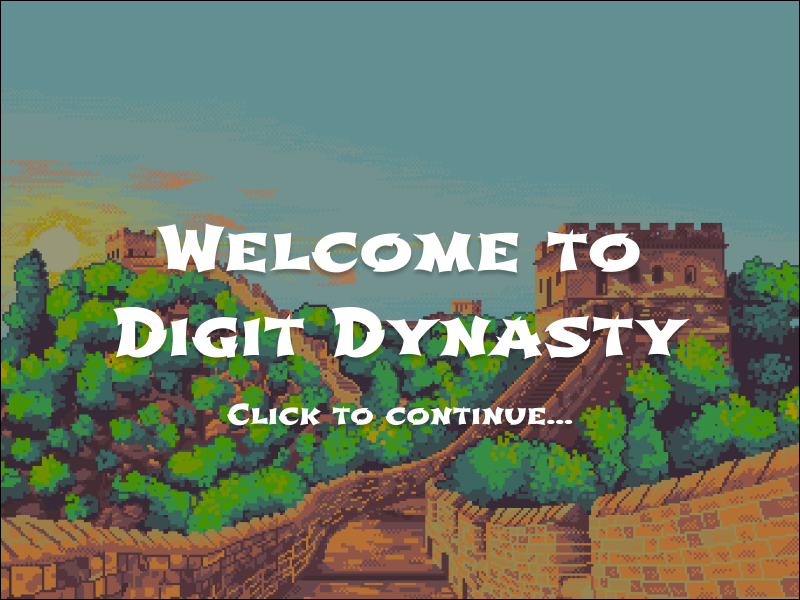
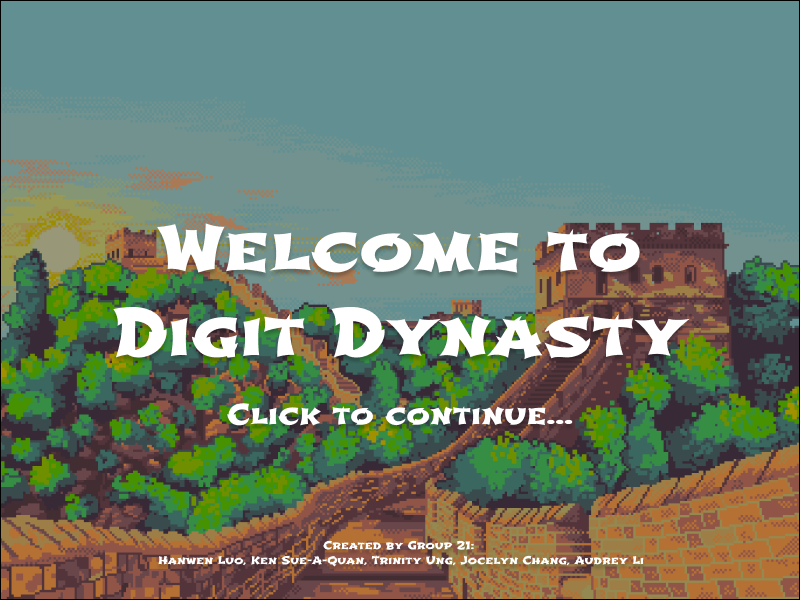
add welcome screen

Changed region(s): [[0.1875, 0.9, 0.8125, 0.96]]

diff --git a/mainMenu.py b/mainMenu.py
@@ -12,6 +12,7 @@ pygame.init()
 SCREEN = pygame.display.set_mode((SCREEN_WIDTH, SCREEN_HEIGHT))
 pygame.display.set_caption('DIGIT DYNASTY')
 BACKGROUND = pygame.image.load("images/background.png")
+WELCOME_SCREEN = pygame.image.load("images/Welcome Screen.png")
 LOGIN = pygame.image.load("images/login_screen.png")
 SIGNUP = pygame.image.load("images/sign_up_screen.png")
 HIGH_SCORE = pygame.image.load("images/leaderboard_screen.png")
@@ -377,8 +378,46 @@ def instructions():
 
         pygame.display.update()
 
+def instructor_dashboard():
+    while True:
+        MOUSE_X, MOUSE_Y = pygame.mouse.get_pos()
+        GAME_MOUSE_POS = pygame.mouse.get_pos()
+
+        SCREEN.blit(INSTRUCTIONS, (0, 0))
+        
+        INSTRUCTIONS_BACK = Button(image = "images/back_button.png", pos = (70, 55), text_input = "", font = get_font("Shojumaru",15), base_colour = "White", hovering_colour = "#b51f09")
+        INSTRUCTIONS_BACK.update(SCREEN)
+
+        if (40<MOUSE_X<75 and 40<MOUSE_Y<70):
+            SCREEN.blit(RESIZED_BACK, (-90,-96))
+
+        for event in pygame.event.get():
+            if event.type == pygame.QUIT:
+                pygame.quit()
+                sys.exit()
+            if event.type == pygame.MOUSEBUTTONDOWN:
+                if INSTRUCTIONS_BACK.checkInput(GAME_MOUSE_POS):
+                    main_menu()
+
+        pygame.display.update()
+
+def welcome_screen():
+    run = True
+    while run:
+        SCREEN.blit(WELCOME_SCREEN, (0, 0))
+        pygame.display.update()
+        for event in pygame.event.get():
+            if event.type == pygame.QUIT:
+                pygame.quit()
+                sys.exit()
+            elif event.type == pygame.MOUSEBUTTONDOWN:
+                run = False
+        pygame.display.update()
+
+
 # Main Menu screen
 def main_menu():
+    welcome_screen()
 
     while True:
         SCREEN.blit(BACKGROUND, (0, 0))
@@ -392,9 +431,7 @@ def main_menu():
         INSTRUCTIONS_BUTTON = Button(image = pygame.image.load("images/scroll_button.png"), pos = (395, 417), text_input = "INSTRUCTIONS", font = get_font("Shojumaru",22), base_colour = "#b51f09", hovering_colour = "White")
         EXIT_BUTTON = Button(image = pygame.image.load("images/scroll_button.png"), pos = (395, 531), text_input = "EXIT", font = get_font("Shojumaru",22), base_colour = "#b51f09", hovering_colour = "White")
         TEACHER_BUTTON = Button(image = APPLE, pos = (40, 40), text_input = "", font = get_font("Shojumaru",15), base_colour = "White", hovering_colour = "#b51f09")
-        
-        TEACHER_BUTTON.update(SCREEN)
-        
+                
         for button in [START_BUTTON, LOAD_BUTTON, HIGH_SCORE_BUTTON, INSTRUCTIONS_BUTTON, EXIT_BUTTON, TEACHER_BUTTON]:
             button.changeColour(MENU_MOUSE_POS)
             button.update(SCREEN)
@@ -415,6 +452,8 @@ def main_menu():
                     high_score()
                 if INSTRUCTIONS_BUTTON.checkInput(MENU_MOUSE_POS):
                     instructions()
+                if TEACHER_BUTTON.checkInput(TEACHER_BUTTON):
+                    instructor_dashboard()
                 if EXIT_BUTTON.checkInput(MENU_MOUSE_POS):
                     pygame.quit()
                     sys.exit()
